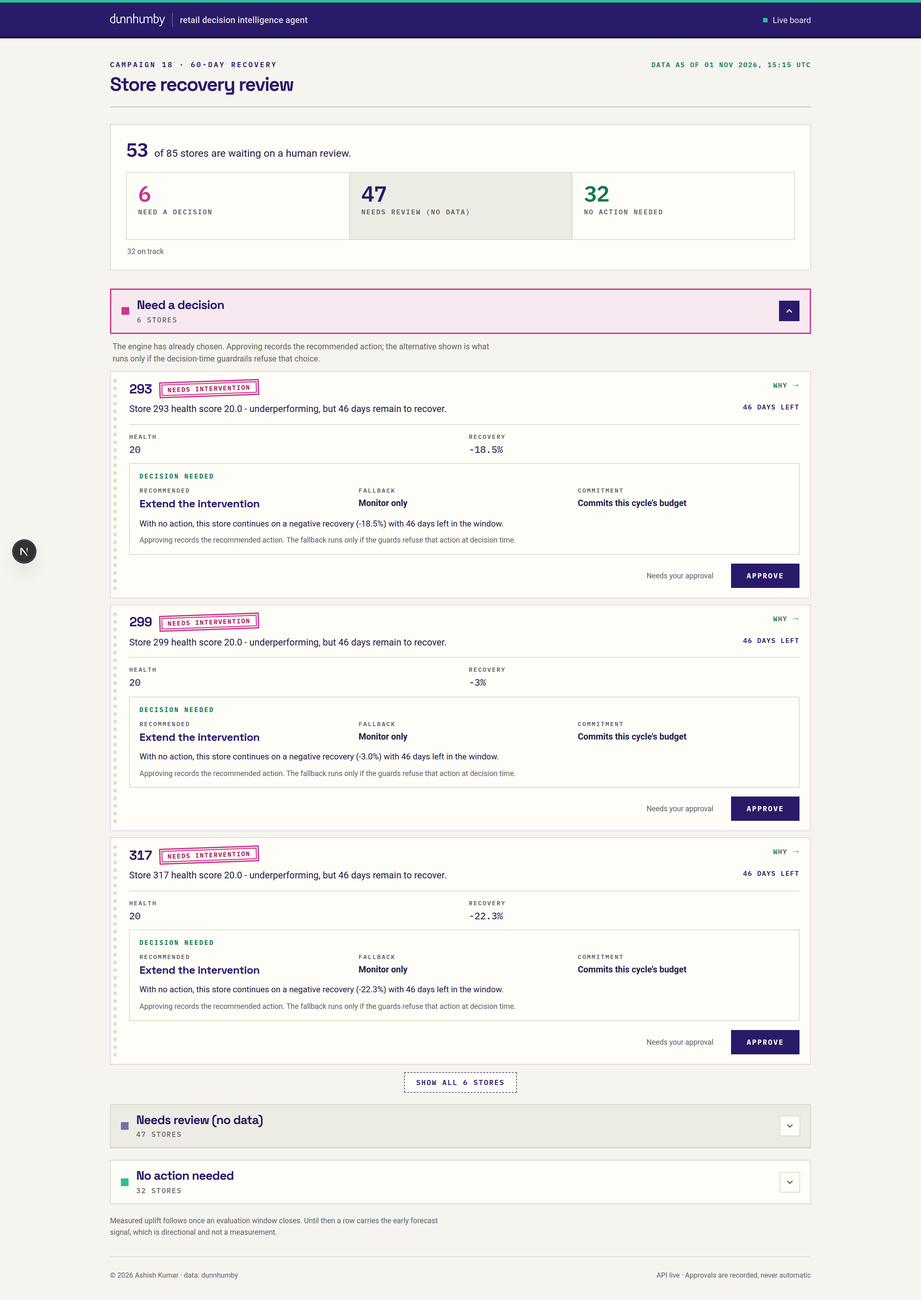
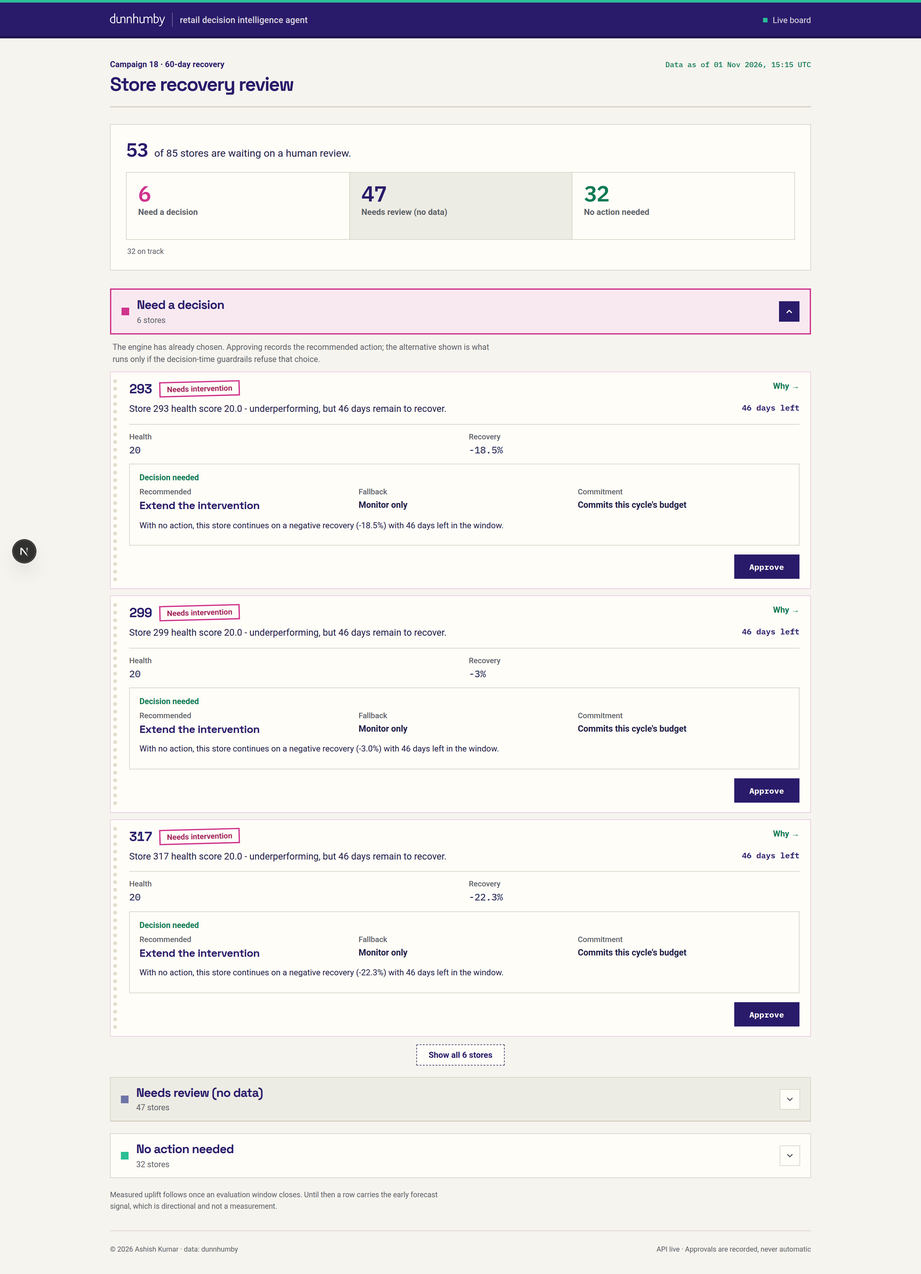
Quiet-voice refinement of the register (anti-slop craft-floor pass)
User verdict: palette + theme keep, but the text and clutter read as AI slop.
Fix is a voice change, not a redesign:

- Sentence case everywhere: no tracked uppercase on any label, kicker,
  button, chip, link, or freshness line; letter-spacing caps at .02em
- IBM Plex Mono now carries only real figures, record ids and the token
  field; labels move to Roboto sentence case (12-13px)
- Stamps quiet from rubber double-ring+caps to clean single rings at
  12px Roboto; rotation softened to -1.5deg; shape carries urgency, not caps
- TSX clutter removals: per-row 'Needs your approval' hint (docket explains),
  repeated fallback boilerplate note (bucket note covers it), content-free
  'Store detail' kicker
- Roboto Mono figures unchanged; palette, band, punches, ruled fields,
  docket, motion untouched
- DESIGN.md + design.json: The Quiet Voice Rule recorded; detector 0
  non-advisory findings; pytest approve-dialog/board/site 53 passed

diff --git a/app/globals.css b/app/globals.css
@@ -78,8 +78,8 @@ img.brand-logo { display: block; height: 20px; width: auto; flex: none; filter: 
 /* --- register head: gate sentence + ruled count cells ---------------------- */
 .board-head { display: flex; flex-wrap: wrap; align-items: baseline; justify-content: space-between; gap: 4px 20px; padding: 30px 0 18px; border-bottom: 2px solid var(--rule) }
 .board-head h1 { font: 700 30px/1.05 var(--display); letter-spacing: -.045em; margin: 7px 0 0; color: var(--indigo) }
-.eyebrow { font: 600 11px var(--mono); letter-spacing: .22em; color: var(--indigo); text-transform: uppercase; text-wrap: balance }
-.board-asof { font: 600 10.5px var(--mono); letter-spacing: .12em; text-transform: uppercase; color: var(--green-ink); white-space: nowrap }
+.eyebrow { font: 600 12.5px var(--font-roboto), Arial, sans-serif; letter-spacing: .01em; color: var(--indigo); text-wrap: balance }
+.board-asof { font: 500 11.5px var(--mono); color: var(--green-ink); white-space: nowrap }
 
 .summary { margin: 26px 0 28px; padding: 24px 24px 20px; border: 1px solid var(--rule); background: var(--paper) }
 .gate-line { display: flex; align-items: baseline; gap: 10px; margin: 0 0 18px; font-size: 16px; line-height: 1.45 }
@@ -91,7 +91,7 @@ img.brand-logo { display: block; height: 20px; width: auto; flex: none; filter: 
 .tile:hover { background: var(--panel) }
 .tile:focus-visible { outline: 2px solid var(--indigo); outline-offset: -2px }
 .tile-count { font: 600 34px/1 var(--mono); letter-spacing: -.02em }
-.tile-label { font: 600 10.5px var(--mono); letter-spacing: .14em; text-transform: uppercase; line-height: 1.6; color: var(--muted); text-wrap: balance }
+.tile-label { font: 600 13px/1.4 var(--font-roboto), Arial, sans-serif; color: var(--muted); text-wrap: balance }
 .tiles-note { margin: 10px 2px 0; font: 400 11.5px/1.5 var(--font-roboto), sans-serif; color: var(--muted); text-wrap: pretty }
 /* Ruled count cells: the verdict carries the figure's ink. */
 .tile.attention .tile-count { color: var(--flash) }
@@ -108,7 +108,7 @@ img.brand-logo { display: block; height: 20px; width: auto; flex: none; filter: 
 .bucket-heading { margin: 0 }
 .bucket-head-label { display: flex; flex-direction: column; min-width: 0; flex: 1 }
 .bucket-title { font: 700 19px/1.2 var(--display); letter-spacing: -.03em; color: var(--indigo) }
-.bucket-count { display: block; margin-top: 4px; font: 500 11px var(--mono); letter-spacing: .12em; text-transform: uppercase; color: var(--muted) }
+.bucket-count { display: block; margin-top: 4px; font: 400 12.5px var(--font-roboto), Arial, sans-serif; color: var(--muted) }
 .bucket-marker { width: 12px; height: 12px; flex: none; background: var(--slate) }
 .section.attention .bucket-head { border-color: var(--flash); border-width: 2px; background: var(--rose) }
 .section.attention .bucket-marker { background: var(--flash) }
@@ -122,7 +122,7 @@ img.brand-logo { display: block; height: 20px; width: auto; flex: none; filter: 
 .bucket-note, .caveat, .narrative, .hero p, .dialog-sub, .dialog-note { text-wrap: pretty }
 .bucket-note { margin: 10px 4px 0; max-width: 84ch; font-size: 12.5px; line-height: 1.55; color: var(--muted) }
 .shared-decision { margin-top: 10px }
-.show-toggle { display: block; margin: 12px auto 2px; padding: 8px 18px; border: 1px dashed var(--carbon); background: var(--paper); font: 600 11px var(--mono); letter-spacing: .14em; text-transform: uppercase; color: var(--indigo); cursor: pointer }
+.show-toggle { display: block; margin: 12px auto 2px; padding: 8px 18px; border: 1px dashed var(--carbon); background: var(--paper); font: 600 13px var(--font-roboto), Arial, sans-serif; color: var(--indigo); cursor: pointer }
 .show-toggle:hover { border-style: solid; border-color: var(--indigo) }
 .show-toggle:focus-visible { outline: 2px solid var(--indigo); outline-offset: 2px }
 .empty { padding: 6px 0 10px; color: var(--muted); font-size: 13px }
@@ -137,36 +137,36 @@ img.brand-logo { display: block; height: 20px; width: auto; flex: none; filter: 
 .store-leading { display: flex; align-items: center; gap: 12px; min-width: 0; flex-wrap: wrap }
 .store-id { font: 700 20px/1.2 var(--display); letter-spacing: -.03em; color: var(--indigo) }
 .store-id:hover { text-decoration: underline }
-.detail-link { flex: none; font: 600 10.5px var(--mono); letter-spacing: .1em; color: var(--green-ink); white-space: nowrap; text-transform: uppercase }
+.detail-link { flex: none; font: 600 13px var(--font-roboto), Arial, sans-serif; color: var(--green-ink); white-space: nowrap }
 .detail-link:hover { text-decoration: underline }
 
 /* The verdict stamps. One element per stub carries the state color; on the
    ACTION REQUIRED form it takes the double-ring magenta stamp, pressed
    askew. Settled stubs wear straight ring stamps; pending wears the dotted
    held-back outline (raised line). */
-.state { padding: 4px 9px; border: 1px solid var(--carbon); color: var(--carbon); font: 600 10px var(--mono); letter-spacing: .12em; text-transform: uppercase; white-space: nowrap; background: var(--paper) }
-.state.state-ok { border: 2px solid var(--green-ink); color: var(--green-ink); box-shadow: inset 0 0 0 1.5px var(--paper), inset 0 0 0 3px var(--green-ink); padding: 4px 11px }
-.section.attention .store-row .state { border: 2px solid var(--flash); color: var(--stamp-ink); font-weight: 700; box-shadow: inset 0 0 0 1.5px var(--paper), inset 0 0 0 3px var(--flash); padding: 4px 11px; transform: rotate(-2deg) }
+.state { padding: 3px 10px; border: 1px solid var(--carbon); color: var(--carbon); font: 600 12px var(--font-roboto), Arial, sans-serif; white-space: nowrap; background: var(--paper) }
+.state.state-ok { border: 2px solid var(--green-ink); color: var(--green-ink); padding: 3px 10px }
+.section.attention .store-row .state { border: 2px solid var(--flash); color: var(--stamp-ink); font-weight: 700; padding: 3px 10px; transform: rotate(-1.5deg) }
 
 .row-title { display: flex; align-items: flex-start; justify-content: space-between; gap: 12px; margin-bottom: 11px }
 .row-meta { display: inline-flex; align-items: center; gap: 10px; flex: none }
-.window-note { font: 600 10.5px var(--mono); letter-spacing: .1em; text-transform: uppercase; color: var(--indigo); white-space: nowrap }
+.window-note { font: 600 12.5px var(--mono); color: var(--indigo); white-space: nowrap }
 .reason { margin: 0; font-size: 14.5px; line-height: 1.55; max-width: 80ch; text-wrap: pretty; color: var(--ink) }
 /* Ruled fact fields, exactly like the register's print boxes. */
 .facts { display: grid; grid-template-columns: repeat(2, minmax(0, 1fr)); gap: 10px 14px; margin: 0; padding: 12px 0 0; border-top: 1px solid var(--rule) }
 .fact { margin: 0; min-width: 0 }
-.fact-label { font: 600 9.5px var(--mono); text-transform: uppercase; letter-spacing: .16em; color: var(--muted) }
+.fact-label { font: 500 12px var(--font-roboto), Arial, sans-serif; color: var(--muted) }
 .fact-value { margin: 4px 0 0; font: 500 15px/1.3 var(--mono); letter-spacing: -.01em; color: var(--carbon) }
-.status { padding: 5px 10px; font: 700 10px var(--mono); letter-spacing: .12em; text-transform: uppercase; white-space: nowrap }
+.status { padding: 4px 9px; font: 600 11.5px var(--font-roboto), Arial, sans-serif; white-space: nowrap }
 .status.error { border: 1px solid var(--rose-line); background: var(--rose); color: var(--stamp-ink) }
 .status.no_data { border: 1px solid var(--rule); background: var(--no-signal); color: var(--indigo) }
 .status.other { border: 1px solid var(--rule); background: var(--no-signal); color: var(--indigo) }
 
 /* --- the recommendation block: ruled print boxes --------------------------- */
 .decision { margin-top: 12px; padding: 13px 15px; border: 1px solid var(--rule); background: var(--paper) }
-.decision-kicker { display: block; margin-bottom: 9px; font: 700 10px var(--mono); text-transform: uppercase; letter-spacing: .18em; color: var(--green-ink) }
+.decision-kicker { display: block; margin-bottom: 8px; font: 600 12.5px var(--font-roboto), Arial, sans-serif; color: var(--green-ink) }
 .decision-grid { display: grid; grid-template-columns: repeat(3, minmax(0, 1fr)); gap: 12px }
-.decision-grid span { display: block; font: 600 9.5px var(--mono); text-transform: uppercase; letter-spacing: .16em; color: var(--muted) }
+.decision-grid span { display: block; font: 500 12px var(--font-roboto), Arial, sans-serif; color: var(--muted) }
 .decision-grid strong { display: block; margin-top: 4px; font-size: 13.5px; line-height: 1.4; color: var(--ink) }
 .decision-grid > div:first-child strong { font: 700 17px/1.25 var(--display); letter-spacing: -.02em; color: var(--indigo) }
 .decision p { margin: 10px 0 0; font-size: 13px; line-height: 1.5 }
@@ -176,21 +176,20 @@ img.brand-logo { display: block; height: 20px; width: auto; flex: none; filter: 
 /* Raised from the dark-console challenger: the approval tab sits alone - no
    hint text crowding it. */
 .card-actions { display: flex; align-items: center; justify-content: flex-end; gap: 28px; margin-top: 14px }
-.approve-hint { font-size: 11.5px; color: var(--muted) }
-.approve-button { display: inline-flex; align-items: center; justify-content: center; min-height: 38px; padding: 0 22px; border: 2px solid var(--indigo); background: var(--indigo); color: #fffdf8; font: 700 11px var(--mono); letter-spacing: .16em; text-transform: uppercase; cursor: pointer }
+.approve-button { display: inline-flex; align-items: center; justify-content: center; min-height: 38px; padding: 0 22px; border: 2px solid var(--indigo); background: var(--indigo); color: #fffdf8; font: 700 12.5px var(--mono); letter-spacing: .02em; cursor: pointer }
 .approve-button:hover { background: var(--indigo-deep); border-color: var(--indigo-deep) }
 .approve-button:focus-visible { outline: 2px solid var(--indigo); outline-offset: 2px }
-.approved-note { display: inline-block; padding: 4px 10px; border: 2px solid var(--green-ink); box-shadow: inset 0 0 0 1.5px var(--paper), inset 0 0 0 3px var(--green-ink); font: 700 10.5px var(--mono); letter-spacing: .12em; text-transform: uppercase; color: var(--green-ink) }
+.approved-note { display: inline-block; padding: 3px 10px; border: 2px solid var(--green-ink); font: 600 12px var(--font-roboto), Arial, sans-serif; color: var(--green-ink) }
 
 /* Compact per-store review in the no-signal list. */
 .id-list { display: flex; flex-wrap: wrap; gap: 8px; margin: 10px 0 4px }
 .id-item { display: inline-flex; align-items: stretch; border: 1px solid var(--rule); background: var(--paper) }
 .id-chip { display: inline-flex; align-items: center; padding: 8px 10px 8px 14px; font: 600 12.5px var(--mono); color: var(--indigo) }
 .id-chip:hover { background: var(--panel) }
-.chip-approve { display: inline-flex; align-items: center; justify-content: center; min-width: 47px; border: 0; border-left: 1px solid var(--rule); background: none; color: var(--green-ink); font: 700 10px var(--mono); letter-spacing: .14em; text-transform: uppercase; cursor: pointer }
+.chip-approve { display: inline-flex; align-items: center; justify-content: center; min-width: 47px; border: 0; border-left: 1px solid var(--rule); background: none; color: var(--green-ink); font: 600 12.5px var(--font-roboto), Arial, sans-serif; cursor: pointer }
 .chip-approve:hover { background: var(--panel); color: var(--indigo) }
 .chip-approve:focus-visible { outline: 2px solid var(--indigo); outline-offset: -2px }
-.bulk-review { display: block; margin: 10px auto 2px; padding: 9px 20px; border: 1px dashed var(--carbon); background: var(--paper); font: 600 11px var(--mono); letter-spacing: .14em; text-transform: uppercase; color: var(--indigo); cursor: pointer }
+.bulk-review { display: block; margin: 10px auto 2px; padding: 9px 20px; border: 1px dashed var(--carbon); background: var(--paper); font: 600 13px var(--font-roboto), Arial, sans-serif; color: var(--indigo); cursor: pointer }
 .bulk-review:hover { border-style: solid; border-color: var(--indigo) }
 .bulk-review:focus-visible { outline: 2px solid var(--indigo); outline-offset: 2px }
 
@@ -199,12 +198,12 @@ img.brand-logo { display: block; height: 20px; width: auto; flex: none; filter: 
 body:has(dialog.approve-dialog[open]) { overflow: hidden }
 .approve-dialog::backdrop { background: rgba(30, 19, 79, .55) }
 .dialog-body { padding: 22px 22px 18px }
-.dialog-eyebrow { display: block; font: 700 10px var(--mono); letter-spacing: .2em; text-transform: uppercase; color: var(--green-ink) }
+.dialog-eyebrow { display: block; font: 600 12.5px var(--font-roboto), Arial, sans-serif; color: var(--green-ink) }
 .dialog-title { font: 700 21px/1.2 var(--display); letter-spacing: -.03em; margin: 7px 0 4px; color: var(--indigo) }
 .dialog-sub { margin: 0 0 14px; font-size: 13px; line-height: 1.5; color: var(--muted) }
 .dialog-recommend { margin: 0 0 16px; padding: 11px 13px; border: 1px solid var(--rule); background: var(--stock); font-size: 13px; line-height: 1.5 }
 .dialog-recommend strong { color: var(--indigo) }
-.dialog-label { display: block; margin-bottom: 6px; font: 600 10px var(--mono); text-transform: uppercase; letter-spacing: .18em; color: var(--muted) }
+.dialog-label { display: block; margin-bottom: 6px; font: 500 12.5px var(--font-roboto), Arial, sans-serif; color: var(--muted) }
 .dialog-input { width: 100%; min-height: 42px; padding: 0 12px; border: 1px solid var(--carbon); background: var(--paper); font: 500 13.5px var(--mono); letter-spacing: .02em; color: var(--ink) }
 .dialog-input:focus { outline: 2px solid var(--indigo); outline-offset: 1px; border-color: transparent }
 .dialog-note { margin: 10px 0 0; font-size: 11.5px; line-height: 1.5; color: var(--muted) }
@@ -212,22 +211,22 @@ body:has(dialog.approve-dialog[open]) { overflow: hidden }
 .dialog-error { margin: 12px 0 0; padding: 9px 11px; border: 1px dashed var(--flash); background: var(--rose); color: var(--stamp-ink); font-size: 12px; line-height: 1.45 }
 .dialog-actions { display: flex; justify-content: flex-end; gap: 10px; margin-top: 18px }
 .link-button { border: 0; padding: 0; background: none; color: var(--green-ink); font-size: inherit; font-weight: 700; text-decoration: underline; cursor: pointer }
-.button-ghost { min-height: 38px; padding: 0 16px; border: 1px solid var(--carbon); background: none; font: 600 11px var(--mono); letter-spacing: .14em; text-transform: uppercase; color: var(--muted); cursor: pointer }
+.button-ghost { min-height: 38px; padding: 0 16px; border: 1px solid var(--carbon); background: none; font: 600 12.5px var(--mono); color: var(--muted); cursor: pointer }
 .button-ghost:hover { border-color: var(--indigo); color: var(--indigo) }
 .button-ghost:focus-visible, .button-primary:focus-visible { outline: 2px solid var(--indigo); outline-offset: 2px }
-.button-primary { min-height: 38px; padding: 0 22px; border: 2px solid var(--indigo); background: var(--indigo); color: #fffdf8; font: 700 11px var(--mono); letter-spacing: .16em; text-transform: uppercase; cursor: pointer }
+.button-primary { min-height: 38px; padding: 0 22px; border: 2px solid var(--indigo); background: var(--indigo); color: #fffdf8; font: 700 12.5px var(--mono); letter-spacing: .02em; cursor: pointer }
 .button-primary:hover { background: var(--indigo-deep); border-color: var(--indigo-deep) }
 .button-primary:disabled { opacity: .55; cursor: progress }
 
 .caveat { margin: 6px 0 28px; max-width: 84ch; font-size: 11.5px; line-height: 1.55; color: var(--muted) }
 .notice { margin: 16px 0; padding: 13px 16px; border: 1px dashed var(--flash); background: var(--rose); color: var(--stamp-ink); font-size: 13px }
-.refresh-note { margin: 6px 0 0; font: 500 10.5px var(--mono); letter-spacing: .08em; color: var(--muted) }
+.refresh-note { margin: 6px 0 0; font: 400 12px var(--font-roboto), Arial, sans-serif; color: var(--muted) }
 
 /* Loading the store feed: blank carbon slips, dashed rules. */
 .loading-board { padding: 22px 0 8px }
 .loading-intro { display: flex; align-items: flex-start; gap: 15px }
 .loading-mark { display: grid; place-items: center; width: 46px; height: 46px; flex: none; border: 1px solid var(--rule); background: var(--indigo); color: #fffdf8 }
-.loading-kicker { margin: 1px 0 4px; font: 600 10px var(--mono); letter-spacing: .2em; text-transform: uppercase; color: var(--green-ink) }
+.loading-kicker { margin: 1px 0 4px; font: 600 12.5px var(--font-roboto), Arial, sans-serif; color: var(--green-ink) }
 .loading-title { margin: 0; font: 700 22px/1.2 var(--display); letter-spacing: -.03em; color: var(--indigo) }
 .loading-copy { margin: 6px 0 0; max-width: 62ch; font-size: 13px; line-height: 1.55; color: var(--muted) }
 .loading-skeleton { display: grid; gap: 14px; margin-top: 24px }
@@ -237,7 +236,7 @@ body:has(dialog.approve-dialog[open]) { overflow: hidden }
 .skeleton-tile { height: 96px }
 .skeleton-tile + .skeleton-tile { border-left: 0 }
 .skeleton-card { height: 210px }
-.loading-note { margin: 14px 0 0; font: 500 10.5px var(--mono); letter-spacing: .08em; color: var(--muted) }
+.loading-note { margin: 14px 0 0; font: 400 12px var(--font-roboto), Arial, sans-serif; color: var(--muted) }
 @media (prefers-reduced-motion: reduce) {
   .topline.is-loading::after { animation: none; opacity: 0; transition: none }
 }
@@ -250,8 +249,8 @@ body:has(dialog.approve-dialog[open]) { overflow: hidden }
 .hero p { max-width: 540px; margin: 0; color: var(--muted); font-size: 15px; line-height: 1.55 }
 .hero-meta { display: flex; flex-direction: column; align-items: flex-end; gap: 7px; color: var(--muted); font-size: 12px; text-align: right }
 .hero-meta strong { color: var(--green-ink); font: 600 12px var(--mono); letter-spacing: .06em }
-.live-dot { display: flex; align-items: center; gap: 8px; color: var(--green-ink); font: 600 11px var(--mono); letter-spacing: .12em; text-transform: uppercase; margin-bottom: 2px }
-.back { display: inline-block; font: 600 11px var(--mono); letter-spacing: .1em; color: var(--green-ink); text-transform: uppercase }
+.live-dot { display: flex; align-items: center; gap: 8px; color: var(--green-ink); font: 600 12px var(--font-roboto), Arial, sans-serif; margin-bottom: 2px }
+.back { display: inline-block; font: 600 13px var(--font-roboto), Arial, sans-serif; color: var(--green-ink) }
 .back:hover { text-decoration: underline }
 .store-id:focus-visible,
 .detail-link:focus-visible,
@@ -262,15 +261,15 @@ body:has(dialog.approve-dialog[open]) { overflow: hidden }
 .panel { padding: 22px 26px; border: 1px solid var(--rule); background: var(--paper); min-width: 0 }
 .section-title { font: 700 15px var(--display); letter-spacing: -.01em; color: var(--indigo); margin: 0 0 14px }
 .narrative { font-size: 15px; line-height: 1.7; color: var(--ink); margin: 0 }
-.grounding { display: inline-flex; align-items: center; gap: 7px; margin: 0; font: 600 11px var(--mono); letter-spacing: .08em; color: var(--green-ink); text-transform: uppercase }
+.grounding { display: inline-flex; align-items: center; gap: 7px; margin: 0; font: 600 12px var(--font-roboto), Arial, sans-serif; color: var(--green-ink) }
 .grounding svg { flex: none; color: var(--green) }
 .chips { display: flex; flex-wrap: wrap; gap: 8px; margin-top: 6px }
-.chips .badge { border: 1px solid var(--carbon); padding: 5px 12px; background: var(--paper); font: 500 11px var(--mono); letter-spacing: .06em; color: var(--carbon) }
+.chips .badge { border: 1px solid var(--carbon); padding: 5px 12px; background: var(--paper); font: 600 12px var(--font-roboto), Arial, sans-serif; color: var(--carbon) }
 .chips .badge.ok { border: 1px solid rgba(14, 122, 85, .5); background: var(--stock); color: var(--green-ink) }
 .chips .badge.warn { border: 1px solid #cbb877; background: var(--yellow); color: var(--amber-ink) }
 .kv { display: flex; justify-content: space-between; gap: 18px; padding: 9px 0; border-bottom: 1px solid var(--rule); font-size: 13px }
 .kv:last-child { border-bottom: 0 }
-.kv span { color: var(--muted); flex: none; font: 600 9.5px var(--mono); text-transform: uppercase; letter-spacing: .16em; padding-top: 3px }
+.kv span { color: var(--muted); flex: none; font: 500 12.5px var(--font-roboto), Arial, sans-serif; padding-top: 2px }
 .kv strong { color: var(--carbon); text-align: right; max-width: 62%; overflow-wrap: anywhere; font: 500 13.5px/1.4 var(--mono) }
 .directional-note { margin: 8px 0 0; font-size: 11.5px; color: var(--muted); font-style: italic }
 .provenance { margin: 26px 0 0; padding-top: 14px; border-top: 1px solid var(--rule); font: 400 11px/1.6 var(--mono); color: var(--muted) }
@@ -283,15 +282,15 @@ body:has(dialog.approve-dialog[open]) { overflow: hidden }
 .ask-panel { margin: 0 0 40px; padding: 22px 26px; border: 1px dashed var(--green-ink); background: var(--stock); min-width: 0 }
 .ask-sub { margin: -4px 0 16px; font-size: 13px; line-height: 1.55; color: var(--muted); max-width: 70ch; text-wrap: pretty }
 .ask-presets { display: flex; flex-wrap: wrap; gap: 8px; margin: 0 0 18px }
-.ask-preset { border: 1px solid var(--green-ink); padding: 8px 14px; background: var(--paper); font: 500 11.5px var(--mono); letter-spacing: .04em; color: var(--green-ink); cursor: pointer }
+.ask-preset { border: 1px solid var(--green-ink); padding: 8px 14px; background: var(--paper); font: 500 13px var(--font-roboto), Arial, sans-serif; color: var(--green-ink); cursor: pointer }
 .ask-preset:hover { background: var(--rose) }
 .ask-preset:disabled { opacity: .55 }
 .ask-preset:focus-visible { outline: 2px solid var(--indigo); outline-offset: 2px }
 .ask-row { display: flex; gap: 9px }
 .ask-row .dialog-input { width: auto; flex: 1; min-width: 0 }
-.ask-status { margin: 14px 0 0; font: 400 11px/1.5 var(--mono); color: var(--muted) }
+.ask-status { margin: 14px 0 0; font: 400 12.5px/1.5 var(--font-roboto), Arial, sans-serif; color: var(--muted) }
 .ask-result { margin-top: 18px; padding: 12px 14px; border: 1px solid var(--rule); background: var(--paper) }
-.ask-honesty { display: block; margin: 0 0 8px; font: 700 10px var(--mono); text-transform: uppercase; letter-spacing: .18em; color: var(--green-ink) }
+.ask-honesty { display: block; margin: 0 0 8px; font: 600 12.5px var(--font-roboto), Arial, sans-serif; color: var(--green-ink) }
 .ask-action { margin: 0; font-size: 13px; line-height: 1.5; color: var(--ink) }
 .ask-action strong { font: 700 15px/1.3 var(--display); letter-spacing: -.02em; color: var(--indigo) }
 .ask-note { margin: 10px 0 0; font-size: 13px; line-height: 1.55; color: var(--ink); text-wrap: pretty }
@@ -308,7 +307,7 @@ body:has(dialog.approve-dialog[open]) { overflow: hidden }
 @media (max-width: 640px) {
   .brand-product, .brand-divider { display: none }
   .board-head h1 { font-size: 27px }
-  .board-asof { white-space: normal; letter-spacing: .1em; flex-basis: 100% }
+  .board-asof { white-space: normal; flex-basis: 100% }
   .gate-line { font-size: 14.5px; gap: 8px }
   .gate-line strong { font-size: 24px }
   .summary { margin: 18px 0 20px; padding: 18px 14px 16px }
@@ -325,7 +324,7 @@ body:has(dialog.approve-dialog[open]) { overflow: hidden }
   .tiles { gap: 0 }
   .tile { min-height: 0; padding: 12px 10px }
   .tile-count { font-size: 26px }
-  .tile-label { font-size: 9px; letter-spacing: .1em }
+  .tile-label { font-size: 12px }
 
   .bucket-head { padding: 13px 14px; gap: 10px }
   .bucket-title { font-size: 17px }
@@ -343,12 +342,11 @@ body:has(dialog.approve-dialog[open]) { overflow: hidden }
   .decision-grid { grid-template-columns: 1fr 1fr; gap: 10px 12px }
   .decision-grid > div:nth-child(3) { grid-column: 1 / -1 }
   .card-actions { margin-top: 12px; gap: 14px }
-  .approve-hint { display: none }
   .approve-button { width: 100%; min-height: 44px }
   .id-list { gap: 9px }
   .id-item { min-height: 44px }
   .id-chip { padding: 8px 12px; font-size: 13px }
-  .chip-approve { min-width: 47px; padding: 0 12px; font-size: 10px }
+  .chip-approve { min-width: 47px; padding: 0 12px; font-size: 12.5px }
   .bulk-review { min-height: 44px }
   .show-toggle { min-height: 40px; padding: 8px 20px; font-size: 10.5px }
   .panel { padding: 18px 16px }
@@ -370,7 +368,6 @@ body:has(dialog.approve-dialog[open]) { overflow: hidden }
 @media (max-width: 380px) {
   .decision-grid { grid-template-columns: 1fr }
   .decision-grid > div:nth-child(3) { grid-column: auto }
-  .tile-label { font-size: 8.5px }
 }
 
 /* --- interaction polish ------------------------------------------------------

diff --git a/app/page.tsx b/app/page.tsx
@@ -170,9 +170,7 @@ function Decision({ row }: { row: BoardRow }) {
       </div>
       {row.cost_of_inaction ? <p>{display(row.cost_of_inaction)}</p> : null}
       <small className="decision-note">
-        {decided
-          ? 'Recorded in the approval ledger.'
-          : 'Approving records the recommended action. The fallback runs only if the guards refuse that action at decision time.'}
+        {decided ? 'Recorded in the approval ledger.' : null}
       </small>
     </div>
   )
@@ -241,7 +239,6 @@ function StoreRow({
       <div className="card-actions">
         {isPending(row) ? (
           <>
-            <span className="approve-hint">Needs your approval</span>
             <button
               type="button"
               className="approve-button"

diff --git a/app/store/[id]/StoreDetail.tsx b/app/store/[id]/StoreDetail.tsx
@@ -229,8 +229,7 @@ export default function StoreDetail({ params }: { params: Promise<{ id: string }
       <section className="hero">
         <div>
           <Link href="/" className="back">← Back to board</Link>
-          <div className="eyebrow" style={{ marginTop: 24 }}>Store detail</div>
-          <h1>Store {display(data?.store_id ?? id)}</h1>
+          <h1 style={{ marginTop: 24 }}>Store {display(data?.store_id ?? id)}</h1>
           <p>What the engine recommends for this store, and the evidence behind it.</p>
         </div>
         {rec ? (

diff --git a/DESIGN.md b/DESIGN.md
@@ -46,10 +46,9 @@ typography:
     lineHeight: 1.4
     letterSpacing: "0.02em"
   label:
-    fontFamily: "IBM Plex Mono, monospace"
-    fontSize: "10px"
-    fontWeight: 600
-    letterSpacing: "0.16em"
+    fontFamily: "Roboto, system-ui, sans-serif"
+    fontSize: "12.5px"
+    fontWeight: 500
     lineHeight: 1.5
 rounded:
   sm: "0px"
@@ -145,16 +144,18 @@ Warm coupon stock replaces the cool editorial ground; every color still works as
 ### Hierarchy
 - **Display** (700, 30px/1.05, -.045em): page nameplates; detail hero scales to `clamp(30px, 4.5vw, 46px)`.
 - **Title** (700, 19-21px): group names, dialog titles, recommended action.
-- **Mono figure** (500-600, 15-34px, tabular): the 53 gate figure, count cells 6/47/32, health/recovery values, store-ID boxes.
-- **Label** (600-700, 9.5-11px, +0.12em to +0.22em, uppercase): field labels (HEALTH, RECOVERY), zone kickers (DECISION NEEDED), the header identity strip (campaign window + data freshness - a content line, not decoration).
+- **Mono figure** (500-600, 15-34px, tabular): the 53 gate figure, count cells 6/47/32, health/recovery values, store-ID boxes, timestamps.
+- **Label** (Roboto 500-600, 12-13px, sentence case): field labels (Health, Recovery), zone lines (Decision needed), the header identity strip (campaign window + data freshness - a content line, not decoration).
 - **Body** (400, 13-15px/1.55): reasons, narrative; ~80ch cap.
 
 ### Named Rules
+**The Quiet Voice Rule.** The register speaks in sentence case. No tracked uppercase anywhere - labels never set `text-transform: uppercase` and never letter-space beyond `.02em`. The register's shout is reserved for the stamp shape alone; IBM Plex Mono carries only figures, record ids, and the token field.
+
 **The Tabular Ledger Rule.** The board re-renders every 60s; every number sits in mono tabular slots so re-renders never jitter or reflow rows. State text lives in fixed cells that change in place (raised from the transit challenger).
 
 ## Layout
 
-One centered column (1160px, 32px gutters) printed on the stock ground. Order: full-bleed masthead band → header strip (identity line left, freshness right, 2px rule) → gate record with the three ruled count cells → three register forms (16-18px apart) → perforated stubs (10px apart) → footer. Detail page prints two sheets at 1.25fr/1fr (why / evidence) over the advisory memo. Breakpoints: 900px stacks the sheets; 640px is the clerk's pocket pass (square stamps, full-width tabs, mono labels shrink to 9px, the docket docks bottom); 380px drops decision prints to one column.
+One centered column (1160px, 32px gutters) printed on the stock ground. Order: full-bleed masthead band → header strip (identity line left, freshness right, 2px rule) → gate record with the three ruled count cells → three register forms (16-18px apart) → perforated stubs (10px apart) → footer. Detail page prints two sheets at 1.25fr/1fr (why / evidence) over the advisory memo. Breakpoints: 900px stacks the sheets; 640px is the clerk's pocket pass (square stamps, full-width tabs, the docket docks bottom); 380px drops decision prints to one column.
 
 ## Elevation & Depth
 
@@ -177,9 +178,9 @@ Sharp is the register's form language: 0px on plates, tabs and count cells; 2px 
 - **Focus:** 2-3px solid outline in carbon/indigo ink, instant (steps).
 
 ### Stamps (state tags - the signature component)
-- **ACT NOW stamp:** paper fill, 2px `#cf348d` ring with inset paper gap + inner ring (rubber-stamp double edge), Stamp Ink uppercase mono text, rotated -2deg.
+- **ACT NOW stamp:** paper fill, clean 2px `#cf348d` ring, Stamp Ink 700 Roboto 12px, rotated -1.5deg.
 - **Settled stamp:** same ring in Green Ink, held straight.
-- **Quiet tag:** 1px carbon outline, paper fill, carbon mono uppercase - neutral states whisper.
+- **Quiet tag:** 1px carbon outline, paper fill, carbon 600 12px sentence case - neutral states whisper.
 - **Held-back outline:** dashed carbon outline for pending/disabled record states (raised from the darkroom challenger).
 - Stamps stand back up at ≤640px.
 
@@ -203,8 +204,10 @@ Sharp is the register's form language: 0px on plates, tabs and count cells; 2px 
 - **Do** print every live figure in IBM Plex Mono with tabular numerals (`font-variant-numeric: tabular-nums`).
 - **Do** keep the ground warm (`#f6f4ef`) and plates paper (`#fffdf8`); depth = stock-on-stock flat.
 - **Do** carry the trio's brand jobs exactly: indigo band + ink, green live system, magenta stamps only.
+- **Do** speak sentence case: mono only carries figures, record ids and the token field.
 
 ### Don't:
+- **Don't** shout: no tracked uppercase anywhere - `letter-spacing` stays ≤ `.02em` outside figures, and stamps carry urgency by shape, not by caps.
 - **Don't** cast a shadow - emphasis comes from stamps, frames, and paper contrast.
 - **Don't** ease anything: motion steps (`steps()`); no fades longer than the LED step.
 - **Don't** put colored borders >1px on stubs or panels; the ACTION REQUIRED frame and stamp rings are the only 2px color in the system.
